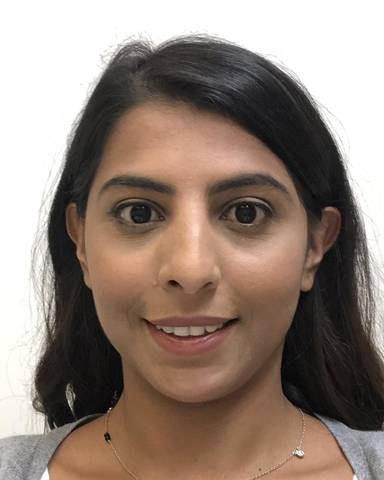
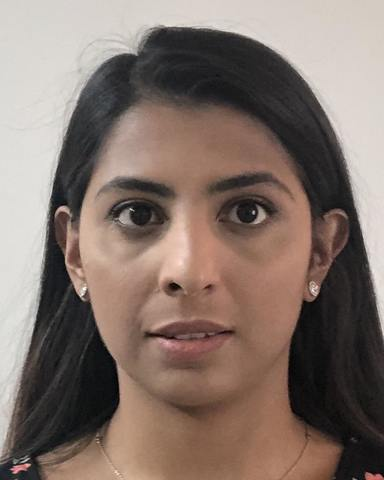
Update with new photos for photo results

diff --git a/views/prototype/photo/check-and-submit-okay-photo.html b/views/prototype/photo/check-and-submit-okay-photo.html
@@ -64,7 +64,7 @@
                 {% if values['applicant-age'] <= 11 %}
                     <img src="/public/images/photo/result/thumbnail-child-age-0-5-fail.jpg" alt="Your photo" title="Your photo" width="150">
                 {% else %}
-                    <img src="/public/images/photo/result/thumbnail-adult-okay-outline-of-head.jpg" alt="Your photo" title="Your photo" width="150">
+                    <img src="/public/images/photo/result/thumbnail-adult-okay-good-bad-lighting.jpg" alt="Your photo" title="Your photo" width="150">
                 {% endif %}
 
                 {% if values['choose-photo'] == 'take' or values['choose-photo'] == 'upload' %}
@@ -130,7 +130,7 @@
                     {% if values['applicant-age'] <= 11 %}
                         <img src="/public/images/photo/result/thumbnail-child-age-0-5-fail.jpg" alt="Your photo" title="Your photo" width="150">
                     {% else %}
-                        <img src="/public/images/photo/result/thumbnail-adult-okay-outline-of-head.jpg" alt="Your photo" title="Your photo" width="150">
+                        <img src="/public/images/photo/result/thumbnail-adult-okay-good-bad-lighting.jpg" alt="Your photo" title="Your photo" width="150">
                     {% endif %}
 
                     {% if values['choose-photo'] == 'take' or values['choose-photo'] == 'upload' %}
